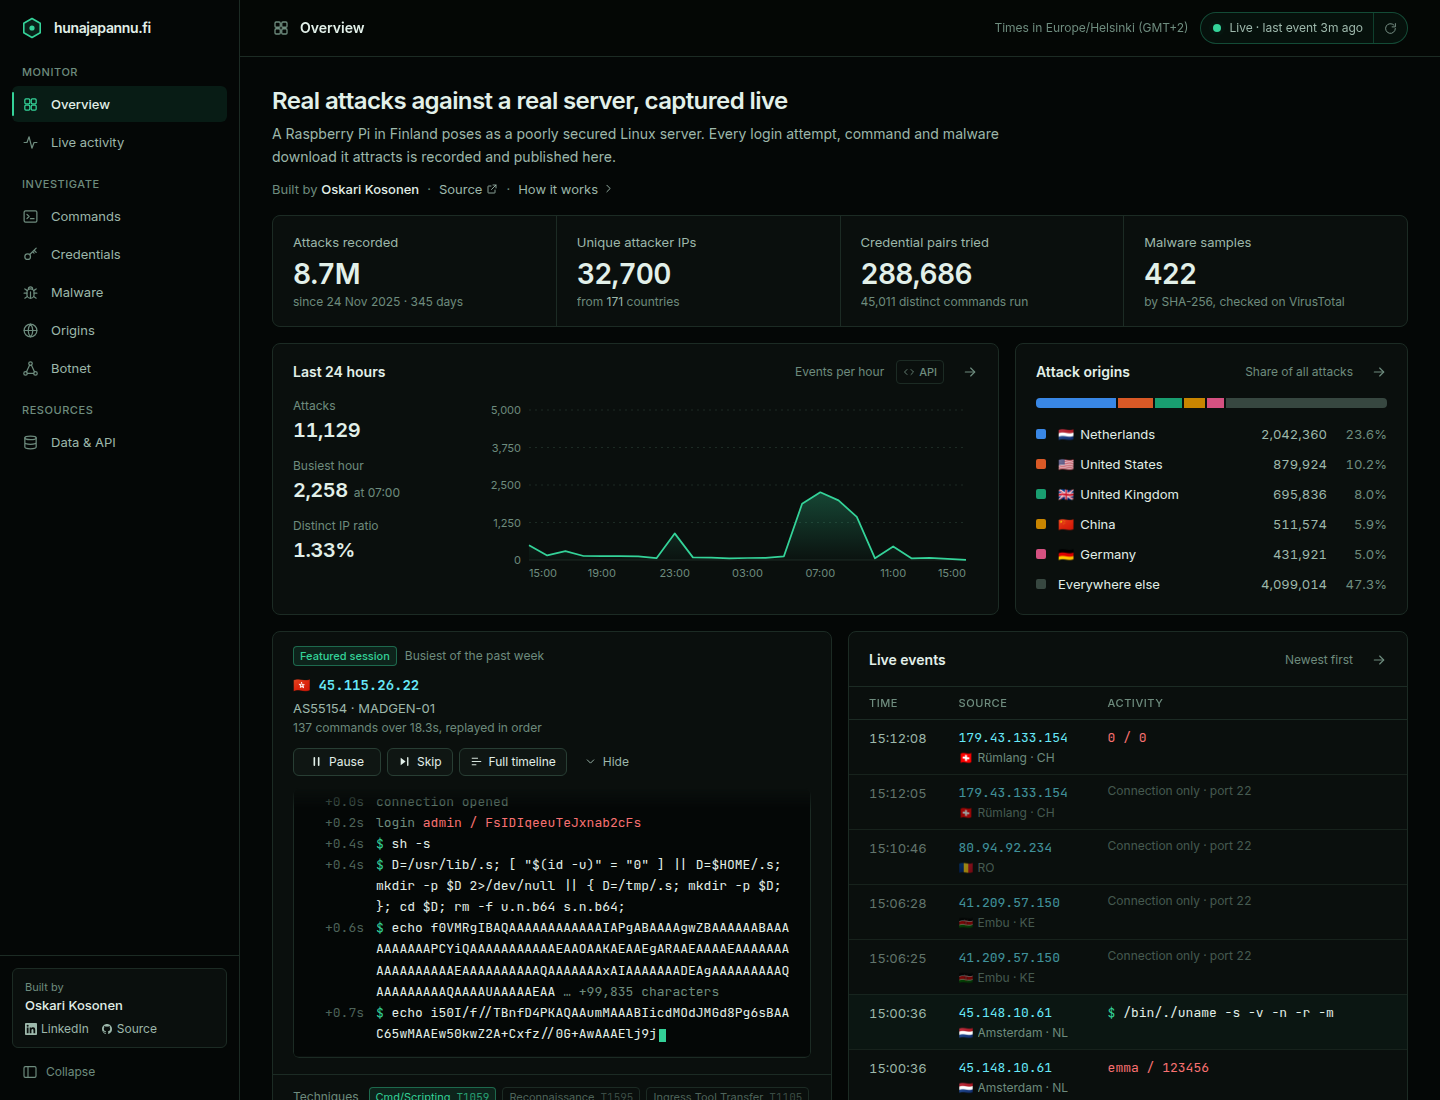
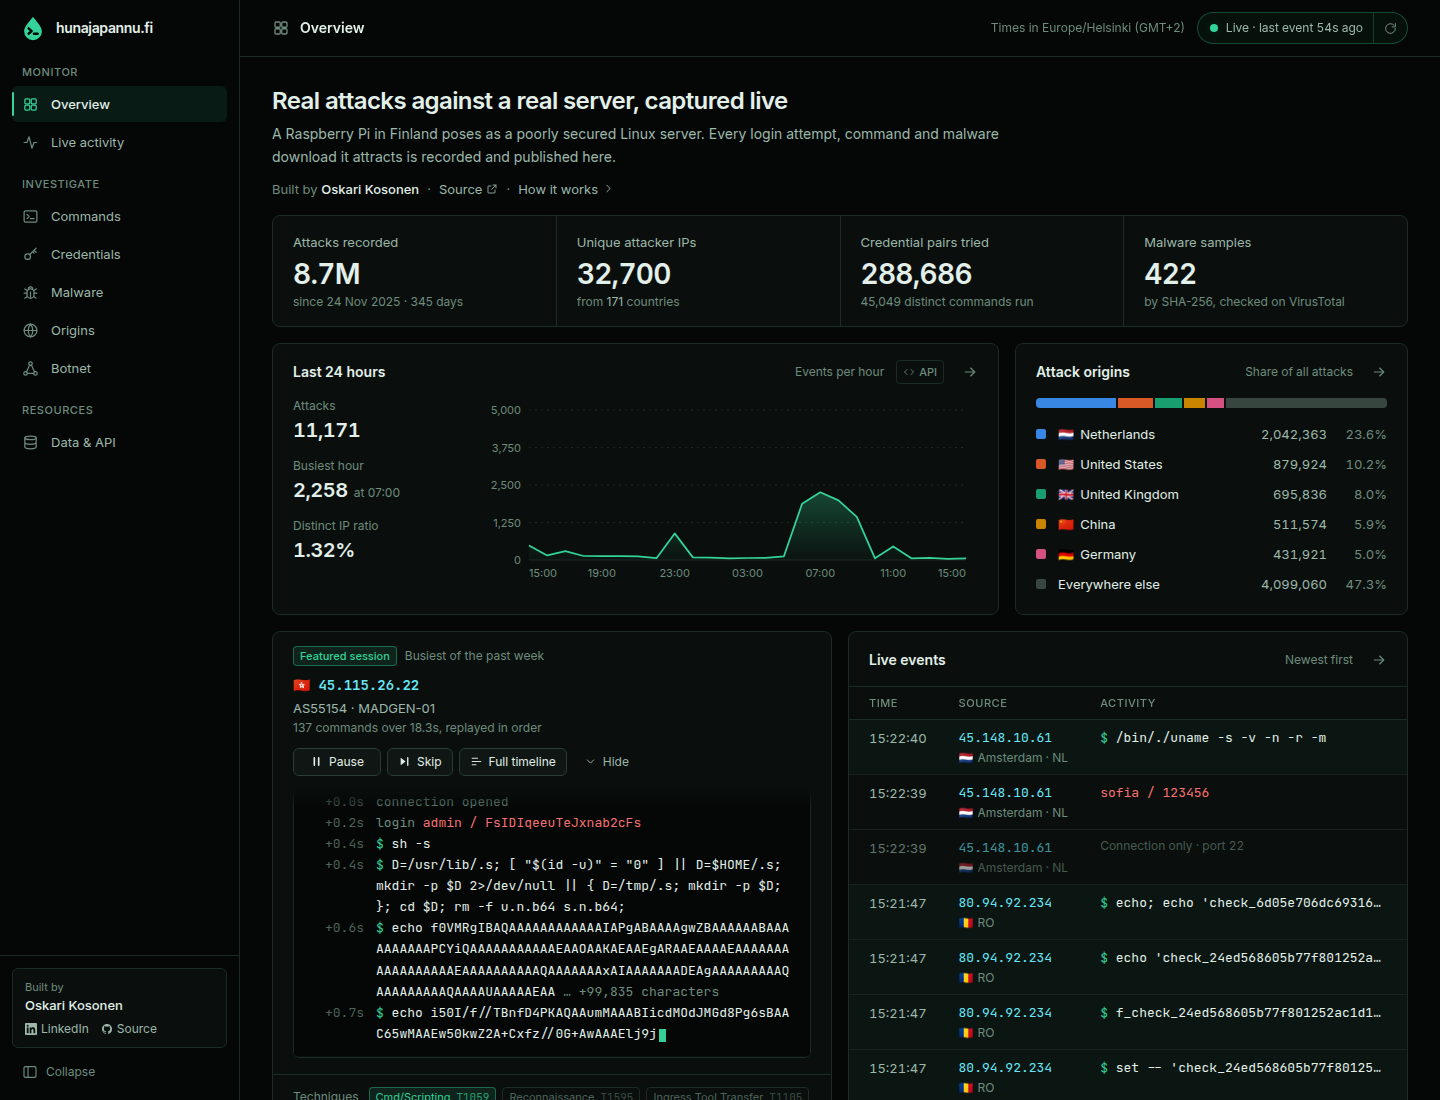
Replace the hexagon with a custom mark: a honey drop holding a prompt
Hunajapannu is Finnish for honey pot, and what it catches is typed into a
terminal, so the mark is a honey drop with a ">_" shell prompt knocked out
of it. The hexagon was a generic shape that said neither.

- The prompt is an SVG mask, not dark paint, so it is a true cut-out on
  any surface: the app canvas, a light or dark browser tab, the preview
  card.
- favicon.svg darkens the drop to emerald-600 under a light colour
  scheme, where the bright emerald fell to ~1.9:1 against a white tab bar.
- The same geometry is used for the in-app LogoMark (sized up slightly,
  since the drop fills less of its box than the hexagon did), the Apple
  touch icon and the link-preview image, all regenerated.

diff --git a/frontend/src/components/ui/icons.jsx b/frontend/src/components/ui/icons.jsx
@@ -1,3 +1,5 @@
+import { useId } from "react";
+
 /**
  * The dozen icons the UI needs, as inline SVG. An icon library would be the
  * second-largest dependency in the bundle to draw these.
@@ -116,16 +118,32 @@ export const LinkedInIcon = ({ size = 16, className = "" }) => (
   </svg>
 );
 
-/** The brand mark: a hexagon cell with a dot — a honeycomb with something in it. */
-export const LogoMark = ({ size = 22, className = "" }) => (
-  <svg width={size} height={size} viewBox="0 0 24 24" aria-hidden="true" className={className}>
-    <path
-      d="M12 2.5 20.2 7.25v9.5L12 21.5l-8.2-4.75v-9.5z"
-      fill="rgb(var(--accent) / 0.12)"
-      stroke="rgb(var(--accent))"
-      strokeWidth="1.6"
-      strokeLinejoin="round"
-    />
-    <circle cx="12" cy="12" r="2.6" fill="rgb(var(--accent))" />
-  </svg>
-);
+/**
+ * The brand mark: a honey drop with a shell prompt knocked out of it.
+ * Hunajapannu is Finnish for honey pot, and what it catches is typed into a
+ * terminal. The prompt is a mask rather than paint, so it shows whatever
+ * surface the mark sits on.
+ */
+const LOGO_DROP =
+  "M12 1.6C9.7 5 3.8 10.4 3.8 15a8.2 8.2 0 0 0 16.4 0C20.2 10.4 14.3 5 12 1.6Z";
+const LOGO_PROMPT = "M7.9 12.3l2.9 2.5-2.9 2.5M12.9 17.3h3.4";
+
+export const LogoMark = ({ size = 22, className = "" }) => {
+  const id = useId();
+  return (
+    <svg width={size} height={size} viewBox="0 0 24 24" aria-hidden="true" className={`shrink-0 ${className}`}>
+      <mask id={id}>
+        <path d={LOGO_DROP} fill="#fff" />
+        <path
+          d={LOGO_PROMPT}
+          fill="none"
+          stroke="#000"
+          strokeWidth="2.2"
+          strokeLinecap="round"
+          strokeLinejoin="round"
+        />
+      </mask>
+      <rect width="24" height="24" fill="rgb(var(--accent))" mask={`url(#${id})`} />
+    </svg>
+  );
+};

diff --git a/frontend/src/components/AppHeader.jsx b/frontend/src/components/AppHeader.jsx
@@ -128,7 +128,7 @@ const AppHeader = ({ desktop, tabs, active, onView, lastEventAt, lastUpdated, on
     <header className="sticky top-0 z-30 border-b border-line bg-canvas/90 backdrop-blur supports-[backdrop-filter]:bg-canvas/75">
       <div className="flex h-14 items-center gap-3 px-4 sm:px-6">
         <a href="/" className="flex items-center gap-2.5 shrink-0" aria-label="hunajapannu.fi — home">
-          <LogoMark />
+          <LogoMark size={24} />
           <h1 className="text-base font-semibold tracking-tight text-fg">hunajapannu.fi</h1>
         </a>
         {controls}

diff --git a/frontend/src/components/Sidebar.jsx b/frontend/src/components/Sidebar.jsx
@@ -28,7 +28,7 @@ const Sidebar = ({ items, groups, view, onView, collapsed, onToggle }) => {
     >
       <div className={cx("flex h-14 shrink-0 items-center gap-2.5", collapsed ? "justify-center" : "px-5")}>
         <a href="/" className="flex items-center gap-2.5 min-w-0" aria-label="hunajapannu.fi — home">
-          <LogoMark size={24} />
+          <LogoMark size={26} />
           <h1 className={cx("text-base font-semibold tracking-tight text-fg", collapsed && "sr-only")}>
             hunajapannu.fi
           </h1>
